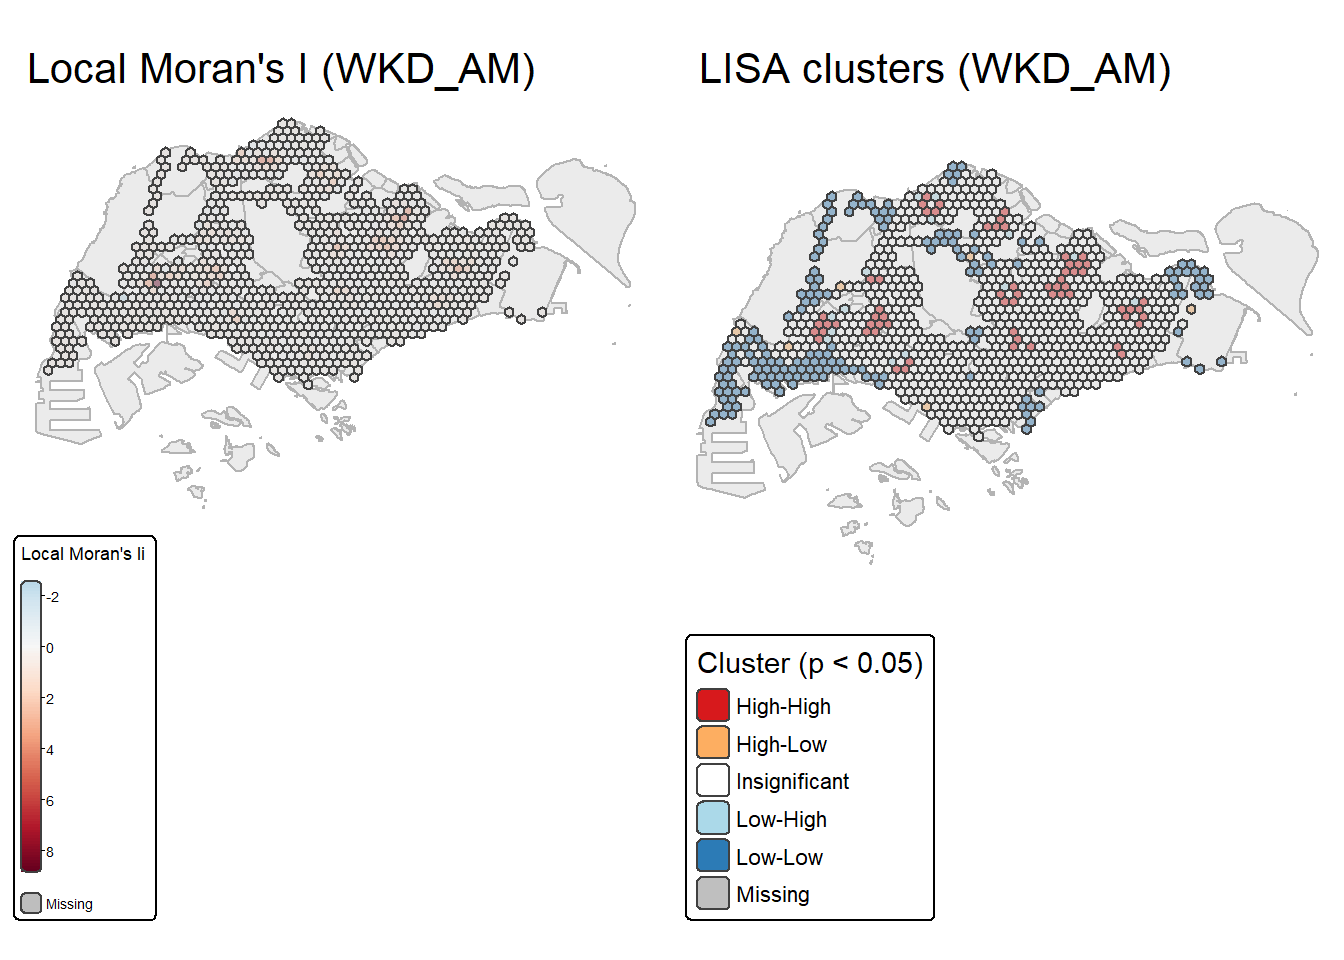
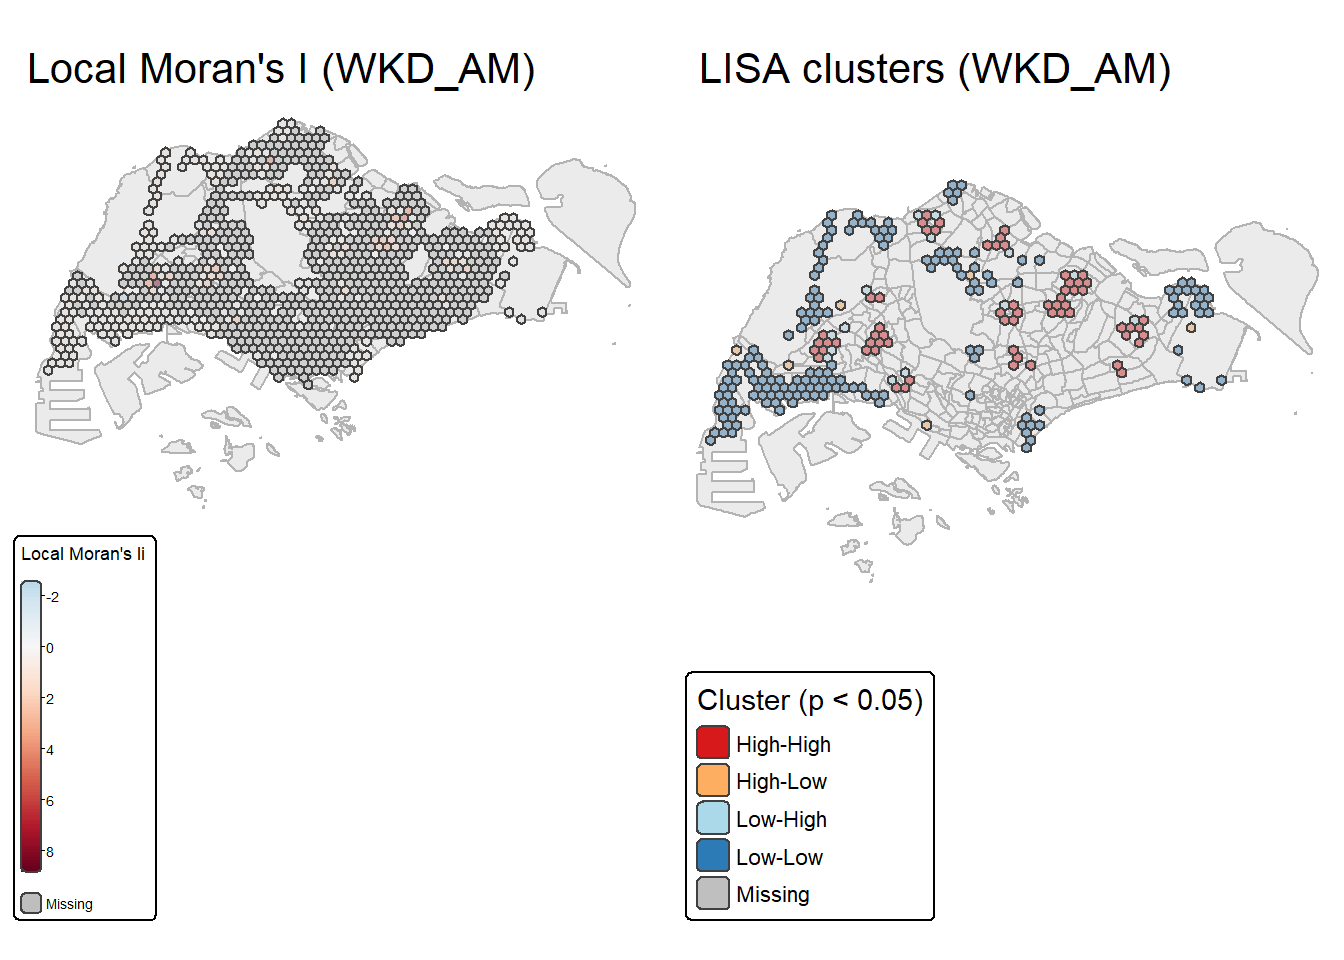
Final Changes to assignment 2

Changed region(s): [[0.5, 0.1562, 0.9688, 0.5938], [0.5, 0.6562, 0.6875, 0.8438], [0.9688, 0.25, 1.0, 0.3125]]

diff --git a/_site/Take_Home_Exercise/Take_Home_Ex02/Take_Home_Ex02.html b/_site/Take_Home_Exercise/Take_Home_Ex02/Take_Home_Ex02.html
@@ -922,44 +922,47 @@ Calling <code>run_lisa_period("WKD_AM")</code> runs the analysis for <strong>wee
 <span id="cb28-21"><a href="#cb28-21" aria-hidden="true" tabindex="-1"></a>      <span class="at">QUADRANT =</span> tidyr<span class="sc">::</span><span class="fu">replace_na</span>(QUADRANT, <span class="st">"Missing"</span>)</span>
 <span id="cb28-22"><a href="#cb28-22" aria-hidden="true" tabindex="-1"></a>    )</span>
 <span id="cb28-23"><a href="#cb28-23" aria-hidden="true" tabindex="-1"></a></span>
-<span id="cb28-24"><a href="#cb28-24" aria-hidden="true" tabindex="-1"></a>  <span class="co"># Color palette (yellow = Insignificant, grey = Missing)</span></span>
+<span id="cb28-24"><a href="#cb28-24" aria-hidden="true" tabindex="-1"></a>  <span class="co"># Palette only for significant classes (optional but cleaner)</span></span>
 <span id="cb28-25"><a href="#cb28-25" aria-hidden="true" tabindex="-1"></a>  pal <span class="ot">&lt;-</span> <span class="fu">c</span>(</span>
-<span id="cb28-26"><a href="#cb28-26" aria-hidden="true" tabindex="-1"></a>    <span class="st">"High-High"</span>     <span class="ot">=</span> <span class="st">"#d7191c"</span>,</span>
-<span id="cb28-27"><a href="#cb28-27" aria-hidden="true" tabindex="-1"></a>    <span class="st">"High-Low"</span>      <span class="ot">=</span> <span class="st">"#fdae61"</span>,</span>
-<span id="cb28-28"><a href="#cb28-28" aria-hidden="true" tabindex="-1"></a>    <span class="st">"Low-High"</span>      <span class="ot">=</span> <span class="st">"#abd9e9"</span>,</span>
-<span id="cb28-29"><a href="#cb28-29" aria-hidden="true" tabindex="-1"></a>    <span class="st">"Low-Low"</span>       <span class="ot">=</span> <span class="st">"#2c7bb6"</span>,</span>
-<span id="cb28-30"><a href="#cb28-30" aria-hidden="true" tabindex="-1"></a>    <span class="st">"Insignificant"</span> <span class="ot">=</span> <span class="st">"#FFFFFF"</span>,</span>
-<span id="cb28-31"><a href="#cb28-31" aria-hidden="true" tabindex="-1"></a>    <span class="st">"Missing"</span>       <span class="ot">=</span> <span class="st">"#FFFF00"</span></span>
-<span id="cb28-32"><a href="#cb28-32" aria-hidden="true" tabindex="-1"></a>  )</span>
-<span id="cb28-33"><a href="#cb28-33" aria-hidden="true" tabindex="-1"></a></span>
-<span id="cb28-34"><a href="#cb28-34" aria-hidden="true" tabindex="-1"></a>  <span class="fu">tmap_mode</span>(<span class="st">"plot"</span>)</span>
+<span id="cb28-26"><a href="#cb28-26" aria-hidden="true" tabindex="-1"></a>    <span class="st">"High-High"</span> <span class="ot">=</span> <span class="st">"#d7191c"</span>,</span>
+<span id="cb28-27"><a href="#cb28-27" aria-hidden="true" tabindex="-1"></a>    <span class="st">"High-Low"</span>  <span class="ot">=</span> <span class="st">"#fdae61"</span>,</span>
+<span id="cb28-28"><a href="#cb28-28" aria-hidden="true" tabindex="-1"></a>    <span class="st">"Low-High"</span>  <span class="ot">=</span> <span class="st">"#abd9e9"</span>,</span>
+<span id="cb28-29"><a href="#cb28-29" aria-hidden="true" tabindex="-1"></a>    <span class="st">"Low-Low"</span>   <span class="ot">=</span> <span class="st">"#2c7bb6"</span></span>
+<span id="cb28-30"><a href="#cb28-30" aria-hidden="true" tabindex="-1"></a>  )</span>
+<span id="cb28-31"><a href="#cb28-31" aria-hidden="true" tabindex="-1"></a></span>
+<span id="cb28-32"><a href="#cb28-32" aria-hidden="true" tabindex="-1"></a>  <span class="co"># --- significance filtering / masking</span></span>
+<span id="cb28-33"><a href="#cb28-33" aria-hidden="true" tabindex="-1"></a>  lisa_sig <span class="ot">&lt;-</span> dplyr<span class="sc">::</span><span class="fu">filter</span>(lisa, SIG)</span>
+<span id="cb28-34"><a href="#cb28-34" aria-hidden="true" tabindex="-1"></a>  lisa_for_stat <span class="ot">&lt;-</span> dplyr<span class="sc">::</span><span class="fu">mutate</span>(lisa, <span class="at">ii_sig =</span> <span class="fu">ifelse</span>(SIG, ii, <span class="cn">NA_real_</span>))</span>
 <span id="cb28-35"><a href="#cb28-35" aria-hidden="true" tabindex="-1"></a></span>
-<span id="cb28-36"><a href="#cb28-36" aria-hidden="true" tabindex="-1"></a>  <span class="co"># Left: Local Moran's Ii</span></span>
-<span id="cb28-37"><a href="#cb28-37" aria-hidden="true" tabindex="-1"></a>  map_stat <span class="ot">&lt;-</span></span>
-<span id="cb28-38"><a href="#cb28-38" aria-hidden="true" tabindex="-1"></a>    <span class="fu">tm_shape</span>(background) <span class="sc">+</span></span>
-<span id="cb28-39"><a href="#cb28-39" aria-hidden="true" tabindex="-1"></a>      <span class="fu">tm_polygons</span>(<span class="at">col =</span> <span class="st">"grey92"</span>, <span class="at">border.col =</span> <span class="st">"grey70"</span>, <span class="at">alpha =</span> <span class="dv">1</span>) <span class="sc">+</span></span>
-<span id="cb28-40"><a href="#cb28-40" aria-hidden="true" tabindex="-1"></a>    <span class="fu">tm_shape</span>(lisa) <span class="sc">+</span></span>
-<span id="cb28-41"><a href="#cb28-41" aria-hidden="true" tabindex="-1"></a>      <span class="fu">tm_polygons</span>(<span class="st">"ii"</span>, <span class="at">style =</span> <span class="st">"cont"</span>, <span class="at">midpoint =</span> <span class="dv">0</span>,</span>
-<span id="cb28-42"><a href="#cb28-42" aria-hidden="true" tabindex="-1"></a>                  <span class="at">palette =</span> <span class="st">"-RdBu"</span>, <span class="at">title =</span> <span class="st">"Local Moran's Ii"</span>) <span class="sc">+</span></span>
-<span id="cb28-43"><a href="#cb28-43" aria-hidden="true" tabindex="-1"></a>      <span class="fu">tm_borders</span>(<span class="at">alpha =</span> .<span class="dv">6</span>) <span class="sc">+</span></span>
-<span id="cb28-44"><a href="#cb28-44" aria-hidden="true" tabindex="-1"></a>    <span class="fu">tm_layout</span>(<span class="at">main.title =</span> <span class="fu">paste0</span>(<span class="st">"Local Moran's I ("</span>, period_label, <span class="st">")"</span>),</span>
-<span id="cb28-45"><a href="#cb28-45" aria-hidden="true" tabindex="-1"></a>              <span class="at">frame =</span> <span class="cn">FALSE</span>)</span>
-<span id="cb28-46"><a href="#cb28-46" aria-hidden="true" tabindex="-1"></a></span>
-<span id="cb28-47"><a href="#cb28-47" aria-hidden="true" tabindex="-1"></a>  <span class="co"># Right: LISA cluster map</span></span>
-<span id="cb28-48"><a href="#cb28-48" aria-hidden="true" tabindex="-1"></a>  map_cluster <span class="ot">&lt;-</span></span>
-<span id="cb28-49"><a href="#cb28-49" aria-hidden="true" tabindex="-1"></a>    <span class="fu">tm_shape</span>(background) <span class="sc">+</span></span>
-<span id="cb28-50"><a href="#cb28-50" aria-hidden="true" tabindex="-1"></a>      <span class="fu">tm_polygons</span>(<span class="at">col =</span> <span class="st">"grey92"</span>, <span class="at">border.col =</span> <span class="st">"grey70"</span>, <span class="at">alpha =</span> <span class="dv">1</span>) <span class="sc">+</span></span>
-<span id="cb28-51"><a href="#cb28-51" aria-hidden="true" tabindex="-1"></a>    <span class="fu">tm_shape</span>(lisa) <span class="sc">+</span></span>
-<span id="cb28-52"><a href="#cb28-52" aria-hidden="true" tabindex="-1"></a>      <span class="fu">tm_polygons</span>(<span class="st">"QUADRANT"</span>, <span class="at">palette =</span> pal, <span class="at">title =</span> <span class="st">"Cluster (p &lt; 0.05)"</span>) <span class="sc">+</span></span>
-<span id="cb28-53"><a href="#cb28-53" aria-hidden="true" tabindex="-1"></a>      <span class="fu">tm_borders</span>(<span class="at">alpha =</span> .<span class="dv">6</span>) <span class="sc">+</span></span>
-<span id="cb28-54"><a href="#cb28-54" aria-hidden="true" tabindex="-1"></a>    <span class="fu">tm_layout</span>(<span class="at">main.title =</span> <span class="fu">paste0</span>(<span class="st">"LISA clusters ("</span>, period_label, <span class="st">")"</span>),</span>
-<span id="cb28-55"><a href="#cb28-55" aria-hidden="true" tabindex="-1"></a>              <span class="at">frame =</span> <span class="cn">FALSE</span>)</span>
-<span id="cb28-56"><a href="#cb28-56" aria-hidden="true" tabindex="-1"></a></span>
-<span id="cb28-57"><a href="#cb28-57" aria-hidden="true" tabindex="-1"></a>  <span class="fu">tmap_arrange</span>(map_stat, map_cluster, <span class="at">ncol =</span> <span class="dv">2</span>)</span>
-<span id="cb28-58"><a href="#cb28-58" aria-hidden="true" tabindex="-1"></a>}</span>
-<span id="cb28-59"><a href="#cb28-59" aria-hidden="true" tabindex="-1"></a></span>
+<span id="cb28-36"><a href="#cb28-36" aria-hidden="true" tabindex="-1"></a>  <span class="fu">tmap_mode</span>(<span class="st">"plot"</span>)  <span class="co"># &lt;-- ensure plot mode</span></span>
+<span id="cb28-37"><a href="#cb28-37" aria-hidden="true" tabindex="-1"></a></span>
+<span id="cb28-38"><a href="#cb28-38" aria-hidden="true" tabindex="-1"></a>  <span class="co"># Left: Local Moran's Ii (masked to significant only)</span></span>
+<span id="cb28-39"><a href="#cb28-39" aria-hidden="true" tabindex="-1"></a>  map_stat <span class="ot">&lt;-</span></span>
+<span id="cb28-40"><a href="#cb28-40" aria-hidden="true" tabindex="-1"></a>    <span class="fu">tm_shape</span>(background) <span class="sc">+</span></span>
+<span id="cb28-41"><a href="#cb28-41" aria-hidden="true" tabindex="-1"></a>      <span class="fu">tm_polygons</span>(<span class="at">col =</span> <span class="st">"grey92"</span>, <span class="at">border.col =</span> <span class="st">"grey70"</span>, <span class="at">alpha =</span> <span class="dv">1</span>) <span class="sc">+</span></span>
+<span id="cb28-42"><a href="#cb28-42" aria-hidden="true" tabindex="-1"></a>    <span class="fu">tm_shape</span>(lisa_for_stat) <span class="sc">+</span></span>
+<span id="cb28-43"><a href="#cb28-43" aria-hidden="true" tabindex="-1"></a>      <span class="fu">tm_polygons</span>(<span class="st">"ii_sig"</span>, <span class="at">style =</span> <span class="st">"cont"</span>, <span class="at">midpoint =</span> <span class="dv">0</span>,</span>
+<span id="cb28-44"><a href="#cb28-44" aria-hidden="true" tabindex="-1"></a>                  <span class="at">palette =</span> <span class="st">"-RdBu"</span>, <span class="at">title =</span> <span class="st">"Local Moran's Ii"</span>,</span>
+<span id="cb28-45"><a href="#cb28-45" aria-hidden="true" tabindex="-1"></a>                  <span class="at">legend.show =</span> <span class="cn">TRUE</span>, <span class="at">id =</span> <span class="st">"HEX_ID"</span>) <span class="sc">+</span>  <span class="co"># (id harmless in plot mode)</span></span>
+<span id="cb28-46"><a href="#cb28-46" aria-hidden="true" tabindex="-1"></a>      <span class="fu">tm_borders</span>(<span class="at">alpha =</span> .<span class="dv">6</span>) <span class="sc">+</span></span>
+<span id="cb28-47"><a href="#cb28-47" aria-hidden="true" tabindex="-1"></a>    <span class="fu">tm_layout</span>(<span class="at">main.title =</span> <span class="fu">paste0</span>(<span class="st">"Local Moran's I ("</span>, period_label, <span class="st">")"</span>),</span>
+<span id="cb28-48"><a href="#cb28-48" aria-hidden="true" tabindex="-1"></a>              <span class="at">frame =</span> <span class="cn">FALSE</span>)</span>
+<span id="cb28-49"><a href="#cb28-49" aria-hidden="true" tabindex="-1"></a></span>
+<span id="cb28-50"><a href="#cb28-50" aria-hidden="true" tabindex="-1"></a>  <span class="co"># Right: significant clusters only</span></span>
+<span id="cb28-51"><a href="#cb28-51" aria-hidden="true" tabindex="-1"></a>  map_cluster <span class="ot">&lt;-</span></span>
+<span id="cb28-52"><a href="#cb28-52" aria-hidden="true" tabindex="-1"></a>    <span class="fu">tm_shape</span>(background) <span class="sc">+</span></span>
+<span id="cb28-53"><a href="#cb28-53" aria-hidden="true" tabindex="-1"></a>      <span class="fu">tm_polygons</span>(<span class="at">col =</span> <span class="st">"grey92"</span>, <span class="at">border.col =</span> <span class="st">"grey70"</span>, <span class="at">alpha =</span> <span class="dv">1</span>) <span class="sc">+</span></span>
+<span id="cb28-54"><a href="#cb28-54" aria-hidden="true" tabindex="-1"></a>    <span class="fu">tm_shape</span>(lisa_sig) <span class="sc">+</span></span>
+<span id="cb28-55"><a href="#cb28-55" aria-hidden="true" tabindex="-1"></a>      <span class="fu">tm_polygons</span>(<span class="st">"QUADRANT"</span>, <span class="at">palette =</span> pal, <span class="at">title =</span> <span class="st">"Cluster (p &lt; 0.05)"</span>,</span>
+<span id="cb28-56"><a href="#cb28-56" aria-hidden="true" tabindex="-1"></a>                  <span class="at">drop.levels =</span> <span class="cn">TRUE</span>) <span class="sc">+</span></span>
+<span id="cb28-57"><a href="#cb28-57" aria-hidden="true" tabindex="-1"></a>      <span class="fu">tm_borders</span>(<span class="at">alpha =</span> .<span class="dv">6</span>) <span class="sc">+</span></span>
+<span id="cb28-58"><a href="#cb28-58" aria-hidden="true" tabindex="-1"></a>    <span class="fu">tm_layout</span>(<span class="at">main.title =</span> <span class="fu">paste0</span>(<span class="st">"LISA clusters ("</span>, period_label, <span class="st">")"</span>),</span>
+<span id="cb28-59"><a href="#cb28-59" aria-hidden="true" tabindex="-1"></a>              <span class="at">frame =</span> <span class="cn">FALSE</span>)</span>
 <span id="cb28-60"><a href="#cb28-60" aria-hidden="true" tabindex="-1"></a></span>
-<span id="cb28-61"><a href="#cb28-61" aria-hidden="true" tabindex="-1"></a><span class="fu">run_lisa_period</span>(<span class="st">"WKD_AM"</span>)</span></code><button title="Copy to Clipboard" class="code-copy-button"><i class="bi"></i></button></pre></div>
+<span id="cb28-61"><a href="#cb28-61" aria-hidden="true" tabindex="-1"></a>  <span class="fu">tmap_arrange</span>(map_stat, map_cluster, <span class="at">ncol =</span> <span class="dv">2</span>)  <span class="co"># &lt;-- return both maps</span></span>
+<span id="cb28-62"><a href="#cb28-62" aria-hidden="true" tabindex="-1"></a>}</span>
+<span id="cb28-63"><a href="#cb28-63" aria-hidden="true" tabindex="-1"></a></span>
+<span id="cb28-64"><a href="#cb28-64" aria-hidden="true" tabindex="-1"></a><span class="fu">run_lisa_period</span>(<span class="st">"WKD_AM"</span>)</span></code><button title="Copy to Clipboard" class="code-copy-button"><i class="bi"></i></button></pre></div>
 <div class="cell-output-display">
 <div>
 <figure class="figure">
